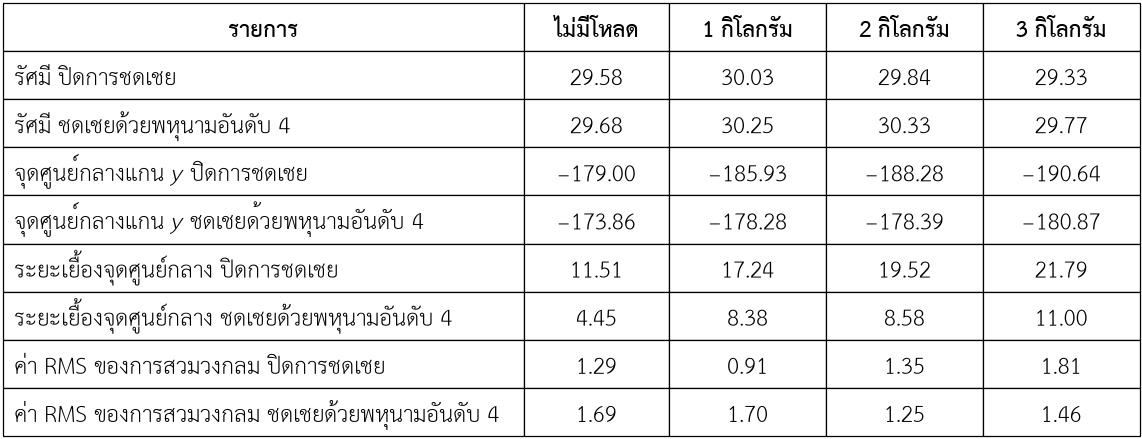
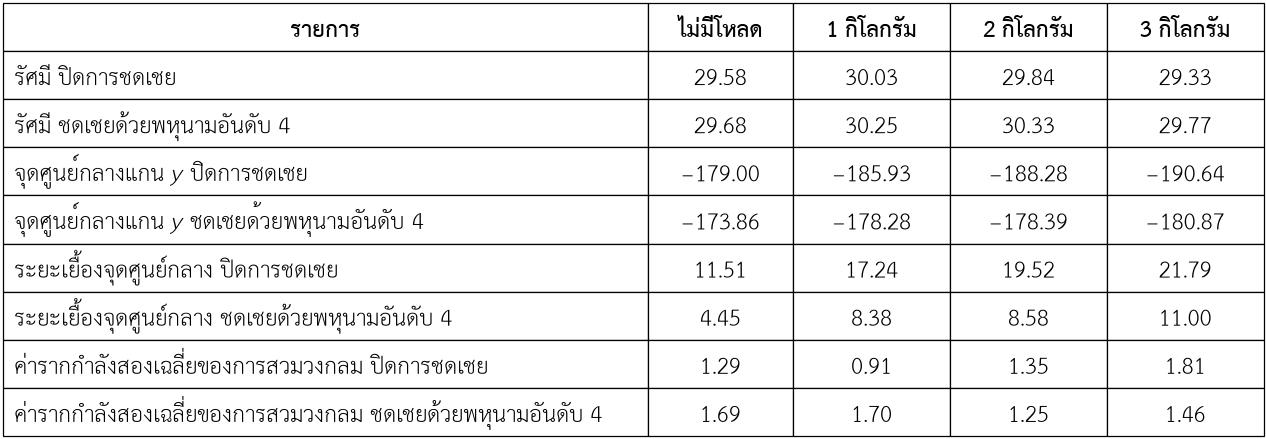
paper: v16 - the author's reviewed v15 plus symbol columns in tables 1 and 4
The author reviewed the v15 highlighted copy and edited it in Word; that
file is the master. make-v16.py adds only what they approved on top:
a symbol column in tables 1 and 4 (labels 'name (unit)', tau_max/W for
the ratio as in equation (2)), 'ค่ารากกำลังสองเฉลี่ย' for RMS in
table 2, and re-fitted column widths. A check shows v16 differs from the
author's file only in those three tables. It writes v16 and a review copy
that keeps the editor-request highlights in yellow and marks this round
in cyan. Table sources and JPGs follow (table 3 drops the model
acronyms as the author did).

diff --git a/paper/make-v16.py b/paper/make-v16.py
@@ -1,0 +1,226 @@
+"""v16 = the author's reviewed copy of v15 (the highlighted one) plus the table changes they approved.
+
+On 25 Nov 2026 the author reviewed `compare/BLEGS_KMUTNB_2026-11-25_v15_highlighted.docx`
+in Word and edited it themself (wording in 2.1, 2.2.1, 2.2.3, 2.2.4, 3.4, the CRediT and
+AI statements, figure 2's caption, table 3's model names).  That file is now the master;
+this script only adds what the author asked for on top of it:
+
+  * tables 1 and 4: a symbol column ("สัญลักษณ์") between the label and the values;
+    the label keeps "name (unit)", the symbol moves to its own cell (table 1's last row
+    gets tau_max/W, as in equation (2); rows with no symbol get "–"), and table 1's
+    "เฉลี่ย 5 ครั้ง" goes - the caption already says the values are means of 5
+  * table 2: "ค่า RMS ของการสวมวงกลม" -> "ค่ารากกำลังสองเฉลี่ยของการสวมวงกลม", as the author
+    already wrote in 2.2.4
+  * column widths of tables 1, 2 and 4 re-fitted to the new text
+
+It writes two files: OUT_HIGHLIGHTED keeps the author's yellow marks (the editor's
+requests) and marks this round's changes in cyan; OUT is the same with every highlight
+removed (the file to send).
+
+usage: python paper/make-v16.py AUTHOR_V15_HIGHLIGHTED.docx OUT.docx OUT_HIGHLIGHTED.docx
+"""
+import re
+import sys
+import zipfile
+
+import pymupdf
+
+src, dst, dst_hl = sys.argv[1:4]
+zin = zipfile.ZipFile(src)
+infos = zin.infolist()
+parts = {i.filename: zin.read(i.filename) for i in infos}
+doc = parts['word/document.xml'].decode('utf8')
+
+INNER_P = re.compile(r'<w:p(?:\s[^>]*[^/])?>(?:(?!<w:p[\s>/]).)*?</w:p>', re.S)
+WT = re.compile(r'<w:t(?:\s[^>]*)?>([^<]*)</w:t>')
+MATH = re.compile(r'<m:oMath>.*?</m:oMath>', re.S)
+CYAN = '<w:highlight w:val="cyan"/>'
+FONT_DIR = 'C:/Users/mteer/AppData/Local/Microsoft/Windows/Fonts/'
+F_REG = pymupdf.Font(fontfile=FONT_DIR + 'THSarabunNew.ttf')
+F_BOLD = pymupdf.Font(fontfile=FONT_DIR + 'THSarabunNew Bold.ttf')
+SLASH = ('<m:r><m:rPr><m:sty m:val="p"/></m:rPr><w:rPr><w:rFonts w:ascii="Cambria Math" w:hAnsi="Cambria Math"/>'
+         '<w:sz w:val="20"/><w:szCs w:val="20"/></w:rPr><m:t>/</m:t></m:r>')
+
+
+def text(x):
+    return ''.join(WT.findall(x))
+
+
+def cell_rpr(p, highlight=True):
+    """rPr for new Thai text in a cell: the cell's first text run's rPr, Thai-flagged, cyan."""
+    m = re.search(r'<w:r(?:\s[^>]*)?>(<w:rPr>.*?</w:rPr>)?(?:<w:[a-zA-Z]+[^>]*/>)*<w:t', p, re.S)
+    rpr = m.group(1) if m and m.group(1) else '<w:rPr></w:rPr>'
+    rpr = re.sub(r'<w:highlight w:val="\w+"/>', '', rpr)
+    if '<w:cs/>' not in rpr:
+        rpr = rpr.replace('<w:lang', '<w:cs/><w:lang', 1) if '<w:lang' in rpr else rpr.replace('</w:rPr>', '<w:cs/></w:rPr>')
+    if highlight:   # w:highlight sits before w:u/w:vertAlign/w:cs/w:lang in rPr order
+        for anchor in ('<w:u ', '<w:vertAlign', '<w:rtl', '<w:cs/>', '<w:lang', '</w:rPr>'):
+            if anchor in rpr:
+                rpr = rpr.replace(anchor, CYAN + anchor, 1)
+                break
+    return rpr
+
+
+def math_hl(x):
+    """Cyan on every maths run (the w:rPr inside each m:r)."""
+    x = re.sub(r'<w:highlight w:val="\w+"/>', '', x)
+    return re.sub(r'(<m:r>(?:<m:rPr>.*?</m:rPr>)?<w:rPr>)', r'\1' + CYAN, x, flags=re.S)
+
+
+def run(rpr, t):
+    sp = ' xml:space="preserve"' if t != t.strip() else ''
+    return '<w:r>%s<w:t%s>%s</w:t></w:r>' % (rpr, sp, t)
+
+
+def p_head(p):
+    return re.match(r'<w:p(?:\s[^>]*)?>(<w:pPr>.*?</w:pPr>)?', p, re.S).group(0)
+
+
+def set_jc(head, jc):
+    if '<w:jc ' in head:
+        return re.sub(r'<w:jc w:val="\w+"/>', '<w:jc w:val="%s"/>' % jc, head)
+    return head.replace('</w:pPr>', '<w:jc w:val="%s"/></w:pPr>' % jc) if '<w:pPr>' in head else head + ''
+
+
+def width_pt(x, bold):
+    w = 0.0
+    for m in re.finditer(r'<m:oMath>.*?</m:oMath>|<w:t(?:\s[^>]*)?>([^<]*)</w:t>', x, re.S):
+        if m.group(0).startswith('<m:oMath'):
+            w += 5.2 * len(''.join(re.findall(r'<m:t[^>]*>([^<]*)</m:t>', m.group(0)))) + 3
+        else:
+            w += (F_BOLD if bold else F_REG).text_length(m.group(1), fontsize=12)
+    return w
+
+
+def width_lines_pt(x, bold):
+    lines = x.split('<w:br/>')
+    return max(width_pt(l, bold) for l in lines)
+
+
+def refit(t, label):
+    rows = re.findall(r'<w:tr[ >].*?</w:tr>', t, re.S)
+    grid = [int(x) for x in re.findall(r'<w:gridCol w:w="(\d+)"/>', t)]
+    total = sum(grid)
+    cells = [re.findall(r'<w:tc>.*?</w:tc>', r, re.S) for r in rows]
+    ncol = len(cells[0])
+    assert all(len(c) == ncol for c in cells), label
+    pad = 2 * 57 + 60
+    need = []
+    for c in range(ncol):
+        body = max(width_pt(cells[r][c], False) for r in range(1, len(rows))) * 20 + pad
+        head = width_lines_pt(cells[0][c], True) * 20 + pad
+        need.append((body, head))
+    want = [max(b, h) for b, h in need]
+    if sum(want) > total:
+        want = [max(b, h / 2 + pad / 2) for b, h in need]
+    if sum(want) > total:
+        sys.exit('%s does not fit: %s' % (label, want))
+    extra = total - sum(want)
+    new = [int(w + extra * w / sum(want)) for w in want]
+    new[-1] += total - sum(new)
+    t = re.sub(r'<w:tblGrid>.*?</w:tblGrid>', '<w:tblGrid>%s</w:tblGrid>' % ''.join('<w:gridCol w:w="%d"/>' % g for g in new), t, flags=re.S)
+    out = []
+    for r in re.findall(r'<w:tr[ >].*?</w:tr>', t, re.S):
+        it = iter(new)
+        out.append(re.sub(r'<w:tcW w:w="\d+" w:type="dxa"/>', lambda _: '<w:tcW w:w="%d" w:type="dxa"/>' % next(it), r))
+    for a, b in zip(re.findall(r'<w:tr[ >].*?</w:tr>', t, re.S), out):
+        t = t.replace(a, b, 1)
+    print('%s: columns %s -> %s' % (label, grid, new))
+    return t
+
+
+def add_symbol_column(t, label, drop=()):
+    rows = re.findall(r'<w:tr[ >].*?</w:tr>', t, re.S)
+    new_rows = []
+    for k, r in enumerate(rows):
+        tcs = list(re.finditer(r'<w:tc>.*?</w:tc>', r, re.S))
+        first, second = tcs[0].group(0), tcs[1].group(0)
+        sp = INNER_P.search(second).group(0)                 # a value cell's paragraph: centred, right size
+        lp = INNER_P.search(first).group(0)
+        if k == 0:
+            sym_p = p_head(sp) + run(cell_rpr(sp), 'สัญลักษณ์') + '</w:p>'
+            new_first = first
+        else:
+            maths = MATH.findall(lp)
+            label_text = re.sub(r'\s+', ' ', text(lp))
+            for d in drop:
+                label_text = label_text.replace(d, '')
+            label_text = re.sub(r'\s+', ' ', label_text).strip()
+            if label_text.startswith('อัตราส่วนแรงบิดต่อมวล') and not maths:
+                tau = [m for m in MATH.findall(t) if 'τ' in m][0]
+                w = [m for m in MATH.findall(t) if re.search(r'<m:t>W</m:t>', m)][0]
+                inner = lambda m: m[len('<m:oMath>'):-len('</m:oMath>')]
+                maths = ['<m:oMath>' + inner(tau) + SLASH + inner(w) + '</m:oMath>']
+            sym = ''.join(math_hl(m) for m in maths) if maths else run(cell_rpr(sp), '–')
+            sym_p = p_head(sp) + sym + '</w:p>'
+            if label_text == re.sub(r'\s+', ' ', text(lp)).strip() and not MATH.search(lp):
+                new_first = first                              # label unchanged (no symbol to move out)
+            else:
+                new_lp = p_head(lp) + run(cell_rpr(lp), label_text) + '</w:p>'
+                new_first = first.replace(lp, new_lp, 1)
+        sym_tc = second.replace(sp, sym_p, 1)
+        r2 = r[:tcs[0].start()] + new_first + sym_tc + r[tcs[0].end():]
+        new_rows.append(r2)
+    for a, b in zip(rows, new_rows):
+        t = t.replace(a, b, 1)
+    # one more grid column (width is re-fitted below)
+    t = re.sub(r'(<w:tblGrid><w:gridCol w:w="\d+"/>)', r'\1<w:gridCol w:w="1000"/>', t, count=1)
+    return t
+
+
+done = []
+
+
+def fix_table(m):
+    t = m.group(0)
+    if '<w:tblStyle w:val="Table"/>' not in t:
+        return t
+    head = text(re.search(r'<w:tr[ >].*?</w:tr>', t, re.S).group(0))
+    if head.startswith('รายการค่า'):                       # table 1
+        t = add_symbol_column(t, 'table 1', drop=(' เฉลี่ย 5 ครั้ง',))
+        done.append(1)
+        return refit(t, 'table 1')
+    if head.startswith('ตัวชี้วัด'):                       # table 4
+        t = add_symbol_column(t, 'table 4')
+        done.append(4)
+        return refit(t, 'table 4')
+    if 'ค่า RMS ของการสวมวงกลม' in text(t):                # table 2
+        n = [0]
+
+        def cell(pm):
+            p = pm.group(0)
+            tx = text(p)
+            if 'ค่า RMS ของการสวมวงกลม' not in tx:
+                return p
+            n[0] += 1
+            return p_head(p) + run(cell_rpr(p), tx.replace('ค่า RMS ของการสวมวงกลม', 'ค่ารากกำลังสองเฉลี่ยของการสวมวงกลม')) + '</w:p>'
+        t = INNER_P.sub(cell, t)
+        if n[0] != 2:
+            sys.exit('table 2: %d RMS rows' % n[0])
+        done.append(2)
+        return refit(t, 'table 2')
+    return t
+
+
+doc = re.sub(r'<w:tbl>.*?</w:tbl>', fix_table, doc, flags=re.S)
+if sorted(done) != [1, 2, 4]:
+    sys.exit('tables done: %s' % done)
+if 'RMS' in text(doc):
+    sys.exit('RMS still in the text')
+
+
+def write(path, xml):
+    parts['word/document.xml'] = xml.encode('utf8')
+    with zipfile.ZipFile(path, 'w', zipfile.ZIP_DEFLATED) as z:
+        for i in infos:
+            z.writestr(i, parts[i.filename])
+    print('wrote', path)
+
+
+write(dst_hl, doc)
+clean = re.sub(r'<w:highlight w:val="\w+"/>', '', doc)
+write(dst, clean)
+for name in list(parts):                                     # the footers carried yellow on the name
+    if re.match(r'word/(header|footer)\d+\.xml$', name):
+        parts[name] = re.sub(rb'<w:highlight w:val="\w+"/>', b'', parts[name])
+write(dst, clean)

diff --git a/paper/manuscript/submission/NEW_TEMPLATE_PLAN.md b/paper/manuscript/submission/NEW_TEMPLATE_PLAN.md
@@ -1,6 +1,16 @@
 # แผนย้ายบทความไปแม่แบบใหม่ของวารสาร (มีผล 1 ต.ค. 2569) — ร่าง v6
 
-สถานะ: **25 พ.ย. 2026 — บทความ 88_272060: ได้ผลพิจารณาเบื้องต้น ขอแก้ 3 ข้อ + ให้ปรับลงไฟล์ template → v15 พร้อมส่งกลับ (ดู "v15") · กำหนดส่ง 24 ธ.ค. 2569 ทางช่องข้อความเดิม (Word + PDF)** · ส่งครั้งแรก 22 พ.ย. 2026 (v14)
+สถานะ: **25 พ.ย. 2026 — บทความ 88_272060: v16 (ไฟล์ที่ผู้นิพนธ์ตรวจ v15 แล้ว + ตาราง 1/4 คอลัมน์สัญลักษณ์ + RMS) รอผู้นิพนธ์ตรวจ `compare\BLEGS_KMUTNB_2026-11-25_v16_highlighted.docx` · ส่งกลับวารสารภายใน 24 ธ.ค. 2569 (Word + PDF)** · ส่งครั้งแรก 22 พ.ย. 2026 (v14)
+
+## v16 (25 พ.ย. 2026) — ต่อจากไฟล์ที่ผู้นิพนธ์ตรวจ v15
+
+ผู้นิพนธ์ตรวจและแก้ใน `compare\BLEGS_KMUTNB_2026-11-25_v15_highlighted.docx` เอง (ไฟล์นี้จึงเป็นต้นฉบับหลัก; สำเนาใน repo: `BLEGS_KMUTNB_2026-11-25_v15_highlighted_author-reviewed.docx`): §2.1 "รายงาน→คำนวณค่าเฉลี่ย" · §2.2.1 "คลาดเคลื่อน" · รูปที่ 2 "ไดอะแกรม→แผนภาพ" ·
+§2.2.3 ตัด "ตามหัวข้อ 2.2.4" · §2.2.4 "หัวข้อ 2.2.2→การฝึก", "ค่า RMS→ค่ารากกำลังสองเฉลี่ย" · ตาราง 3 ตัด (MLP)/(RF)/(SVR) · §3.4 ถ้อยคำหลายจุด ·
+CRediT "วิเคราะห์ ตรวจสอบผล" · คำประกาศ AI "สอบเทียบกล้อง" และ "ผู้นิพนธ์ดำเนินการตามคำประกาศการมีส่วนร่วมข้างต้น รวมทั้งเก็บข้อมูลทั้งหมดด้วยตนเอง"
+`python paper/make-v16.py <author_v15_highlighted.docx> <v16.docx> <v16_highlighted.docx>` เพิ่มเฉพาะที่ผู้นิพนธ์อนุมัติ: ตาราง 1 และ 4 มีคอลัมน์ "สัญลักษณ์"
+(ป้าย "ชื่อ (หน่วย)", ตาราง 1 ตัด "เฉลี่ย 5 ครั้ง" เพราะชื่อตารางบอกแล้ว, แถวสุดท้าย τmax/W ตามสมการ (2), แถวที่ไม่มีสัญลักษณ์ใส่ "–") · ตาราง 2 "ค่ารากกำลังสองเฉลี่ยของการสวมวงกลม" ·
+ความกว้างคอลัมน์ตาราง 1/2/4 ใหม่ · ตรวจแล้วว่าต่างจากไฟล์ผู้นิพนธ์เฉพาะตาราง 1/2/4 · 15 หน้า · `tables/src` และ `tables/export` ตาราง 1–4 ตรงกับ v16 แล้ว ·
+v16_highlighted: เหลือง = สิ่งที่บรรณาธิการขอ (จาก v15), ฟ้า (cyan) = รอบนี้ · ชุดส่งกลับใน `6_Revision_1_2026-11-25` ยังเป็น v15 — อัปเดตหลังผู้นิพนธ์อนุมัติ v16
 
 ## v15 (25 พ.ย. 2026) — แก้ตามการพิจารณาเบื้องต้นของบรรณาธิการ (บทความ 88_272060)
 

diff --git a/paper/tables/src/table4.md b/paper/tables/src/table4.md
@@ -1,17 +1,16 @@
 <!-- 25 Nov 2026: the editor of The Journal of KMUTNB asked for every table header and row label in Thai
      (preliminary check of article 88_272060); units follow the body text (Thai unit names). -->
-
 <!-- 3 Nov 2026 re-shoot: 5 ML-on/ML-off pairs per payload, open-loop straight walk.
      Source: python/paper_testing/test_3/output/data/walk_video_metrics_261103_{0kg,3kg}.csv
      (walk_video_metrics.py).  Mean +/- SD over 5 runs; delta and phi_end are taken as absolute
      values because the drift direction differs between payloads; d_60 is the lateral shift
      at 60 cm along the runway, a distance every run reached.  Paired t-test p values in 3.3. -->
 
-| ตัวชี้วัด | ไม่มีโหลด ปิดการชดเชย | ไม่มีโหลด เปิดการชดเชย | 3 กิโลกรัม ปิดการชดเชย | 3 กิโลกรัม เปิดการชดเชย |
-|---|---|---|---|---|
-| จำนวนรอบ | 5 | 5 | 5 | 5 |
-| ระยะที่เดินได้ $D$ (เมตร) | 1.98 ± 0.05 | 1.94 ± 0.03 | 0.82 ± 0.18 | 1.07 ± 0.03 |
-| อัตราการเบี่ยง $\vert\delta\vert$ (เซนติเมตรต่อเมตร) | 23.7 ± 3.9 | 7.9 ± 3.2 | 29.4 ± 3.1 | 15.1 ± 3.0 |
-| มุมเบี่ยง $\vert\varphi_{end}\vert$ (องศา) | 24.0 ± 5.0 | 5.3 ± 3.3 | 24.1 ± 1.9 | 10.3 ± 3.5 |
-| ระยะเบี่ยงด้านข้าง $\vert d_{60}\vert$ (เซนติเมตร) | 9.0 ± 1.0 | 7.5 ± 1.2 | 13.4 ± 3.7 | 5.0 ± 1.3 |
-| ความเร็ว (เซนติเมตรต่อวินาที) | 13.8 ± 0.3 | 13.4 ± 1.0 | 8.9 ± 0.3 | 7.7 ± 0.4 |
+| ตัวชี้วัด | สัญลักษณ์ | ไม่มีโหลด ปิดการชดเชย | ไม่มีโหลด เปิดการชดเชย | 3 กิโลกรัม ปิดการชดเชย | 3 กิโลกรัม เปิดการชดเชย |
+|---|---|---|---|---|---|
+| จำนวนรอบ | – | 5 | 5 | 5 | 5 |
+| ระยะที่เดินได้ (เมตร) | $D$ | 1.98 ± 0.05 | 1.94 ± 0.03 | 0.82 ± 0.18 | 1.07 ± 0.03 |
+| อัตราการเบี่ยง (เซนติเมตรต่อเมตร) | $\vert\delta\vert$ | 23.7 ± 3.9 | 7.9 ± 3.2 | 29.4 ± 3.1 | 15.1 ± 3.0 |
+| มุมเบี่ยง (องศา) | $\vert\varphi_{end}\vert$ | 24.0 ± 5.0 | 5.3 ± 3.3 | 24.1 ± 1.9 | 10.3 ± 3.5 |
+| ระยะเบี่ยงด้านข้าง (เซนติเมตร) | $\vert d_{60}\vert$ | 9.0 ± 1.0 | 7.5 ± 1.2 | 13.4 ± 3.7 | 5.0 ± 1.3 |
+| ความเร็ว (เซนติเมตรต่อวินาที) | – | 13.8 ± 0.3 | 13.4 ± 1.0 | 8.9 ± 0.3 | 7.7 ± 0.4 |

diff --git a/paper/tables/src/table1.md b/paper/tables/src/table1.md
@@ -1,6 +1,5 @@
 <!-- 25 Nov 2026: the editor of The Journal of KMUTNB asked for every table header and row label in Thai
      (preliminary check of article 88_272060); units follow the body text (Thai unit names). -->
-
 <!-- Source values (author, 26 Aug 2026): digital force gauge hooked to the
      upper-link pivot, motor holding under FOC at a 12 V bus, mean of 5 trials
      = 9.855 kgf.  Converted here at g = 9.80665.  Robot mass 5597 g.
@@ -9,10 +8,10 @@
      readings, so no standard deviation can be given.  If the raw five turn
      up, restore a per-trial table and add SD. -->
 
-| รายการ | ค่า |
-|---|---|
-| แรงสูงสุด $F_{max}$ เฉลี่ย 5 ครั้ง (นิวตัน) | 96.64 |
-| แขนโมเมนต์ $r$ (เมตร) | 0.105 |
-| แรงบิดสูงสุด $\tau_{max}$ (นิวตันเมตร) | 10.15 |
-| มวลหุ่นยนต์ $W$ (กิโลกรัม) | 5.597 |
-| อัตราส่วนแรงบิดต่อมวล (นิวตันเมตรต่อกิโลกรัม) | 1.81 |
+| รายการ | สัญลักษณ์ | ค่า |
+|---|---|---|
+| แรงสูงสุด (นิวตัน) | $F_{max}$ | 96.64 |
+| แขนโมเมนต์ (เมตร) | $r$ | 0.105 |
+| แรงบิดสูงสุด (นิวตันเมตร) | $\tau_{max}$ | 10.15 |
+| มวลหุ่นยนต์ (กิโลกรัม) | $W$ | 5.597 |
+| อัตราส่วนแรงบิดต่อมวล (นิวตันเมตรต่อกิโลกรัม) | $\tau_{max}/W$ | 1.81 |

diff --git a/paper/tables/src/table2.md b/paper/tables/src/table2.md
@@ -1,6 +1,5 @@
 <!-- 25 Nov 2026: the editor of The Journal of KMUTNB asked for every table header and row label in Thai
      (preliminary check of article 88_272060); units follow the body text (Thai unit names). -->
-
 <!-- Transposed like table4, for the same reason: the four payload levels read
      across, the quantities down the side, so it stays at 5 columns and fits a
      7.5 cm journal column.
@@ -21,5 +20,5 @@
 | จุดศูนย์กลางแกน $y$ ชดเชยด้วยพหุนามอันดับ 4 | −173.86 | −178.28 | −178.39 | −180.87 |
 | ระยะเยื้องจุดศูนย์กลาง ปิดการชดเชย | 11.51 | 17.24 | 19.52 | 21.79 |
 | ระยะเยื้องจุดศูนย์กลาง ชดเชยด้วยพหุนามอันดับ 4 | 4.45 | 8.38 | 8.58 | 11.00 |
-| ค่า RMS ของการสวมวงกลม ปิดการชดเชย | 1.29 | 0.91 | 1.35 | 1.81 |
-| ค่า RMS ของการสวมวงกลม ชดเชยด้วยพหุนามอันดับ 4 | 1.69 | 1.70 | 1.25 | 1.46 |
+| ค่ารากกำลังสองเฉลี่ยของการสวมวงกลม ปิดการชดเชย | 1.29 | 0.91 | 1.35 | 1.81 |
+| ค่ารากกำลังสองเฉลี่ยของการสวมวงกลม ชดเชยด้วยพหุนามอันดับ 4 | 1.69 | 1.70 | 1.25 | 1.46 |

diff --git a/paper/tables/src/table3.md b/paper/tables/src/table3.md
@@ -1,6 +1,5 @@
 <!-- 25 Nov 2026: the editor of The Journal of KMUTNB asked for every table header and row label in Thai
      (preliminary check of article 88_272060); units follow the body text (Thai unit names). -->
-
 <!-- Cross-condition model comparison.  Every value from
      ../../python/paper_testing/test_2/output/data/dynamic_eval.csv
      (dynamic_model_evaluation.py) - do not hand-edit, re-run the script.
@@ -19,7 +18,7 @@
 |---|---|---|---|---|---|
 | ไม่ชดเชย | 8.70 | 11.92 | 13.32 | 14.54 | 12.12 |
 | พหุนามอันดับ 3 | 3.63 | 5.17 | 6.06 | 7.03 | 5.47 |
-| โครงข่ายประสาทเทียม (MLP) | 3.27 | 5.94 | 6.06 | 6.88 | 5.54 |
-| ป่าสุ่ม (RF) | 3.57 | 5.55 | 5.96 | 7.14 | 5.56 |
+| โครงข่ายประสาทเทียม | 3.27 | 5.94 | 6.06 | 6.88 | 5.54 |
+| ป่าสุ่ม | 3.57 | 5.55 | 5.96 | 7.14 | 5.56 |
 | พหุนามอันดับ 4 | 3.56 | 5.95 | 5.90 | 7.21 | 5.66 |
-| เวกเตอร์สนับสนุน (SVR) | 3.78 | 5.78 | 5.78 | 7.78 | 5.78 |
+| เวกเตอร์สนับสนุน | 3.78 | 5.78 | 5.78 | 7.78 | 5.78 |
